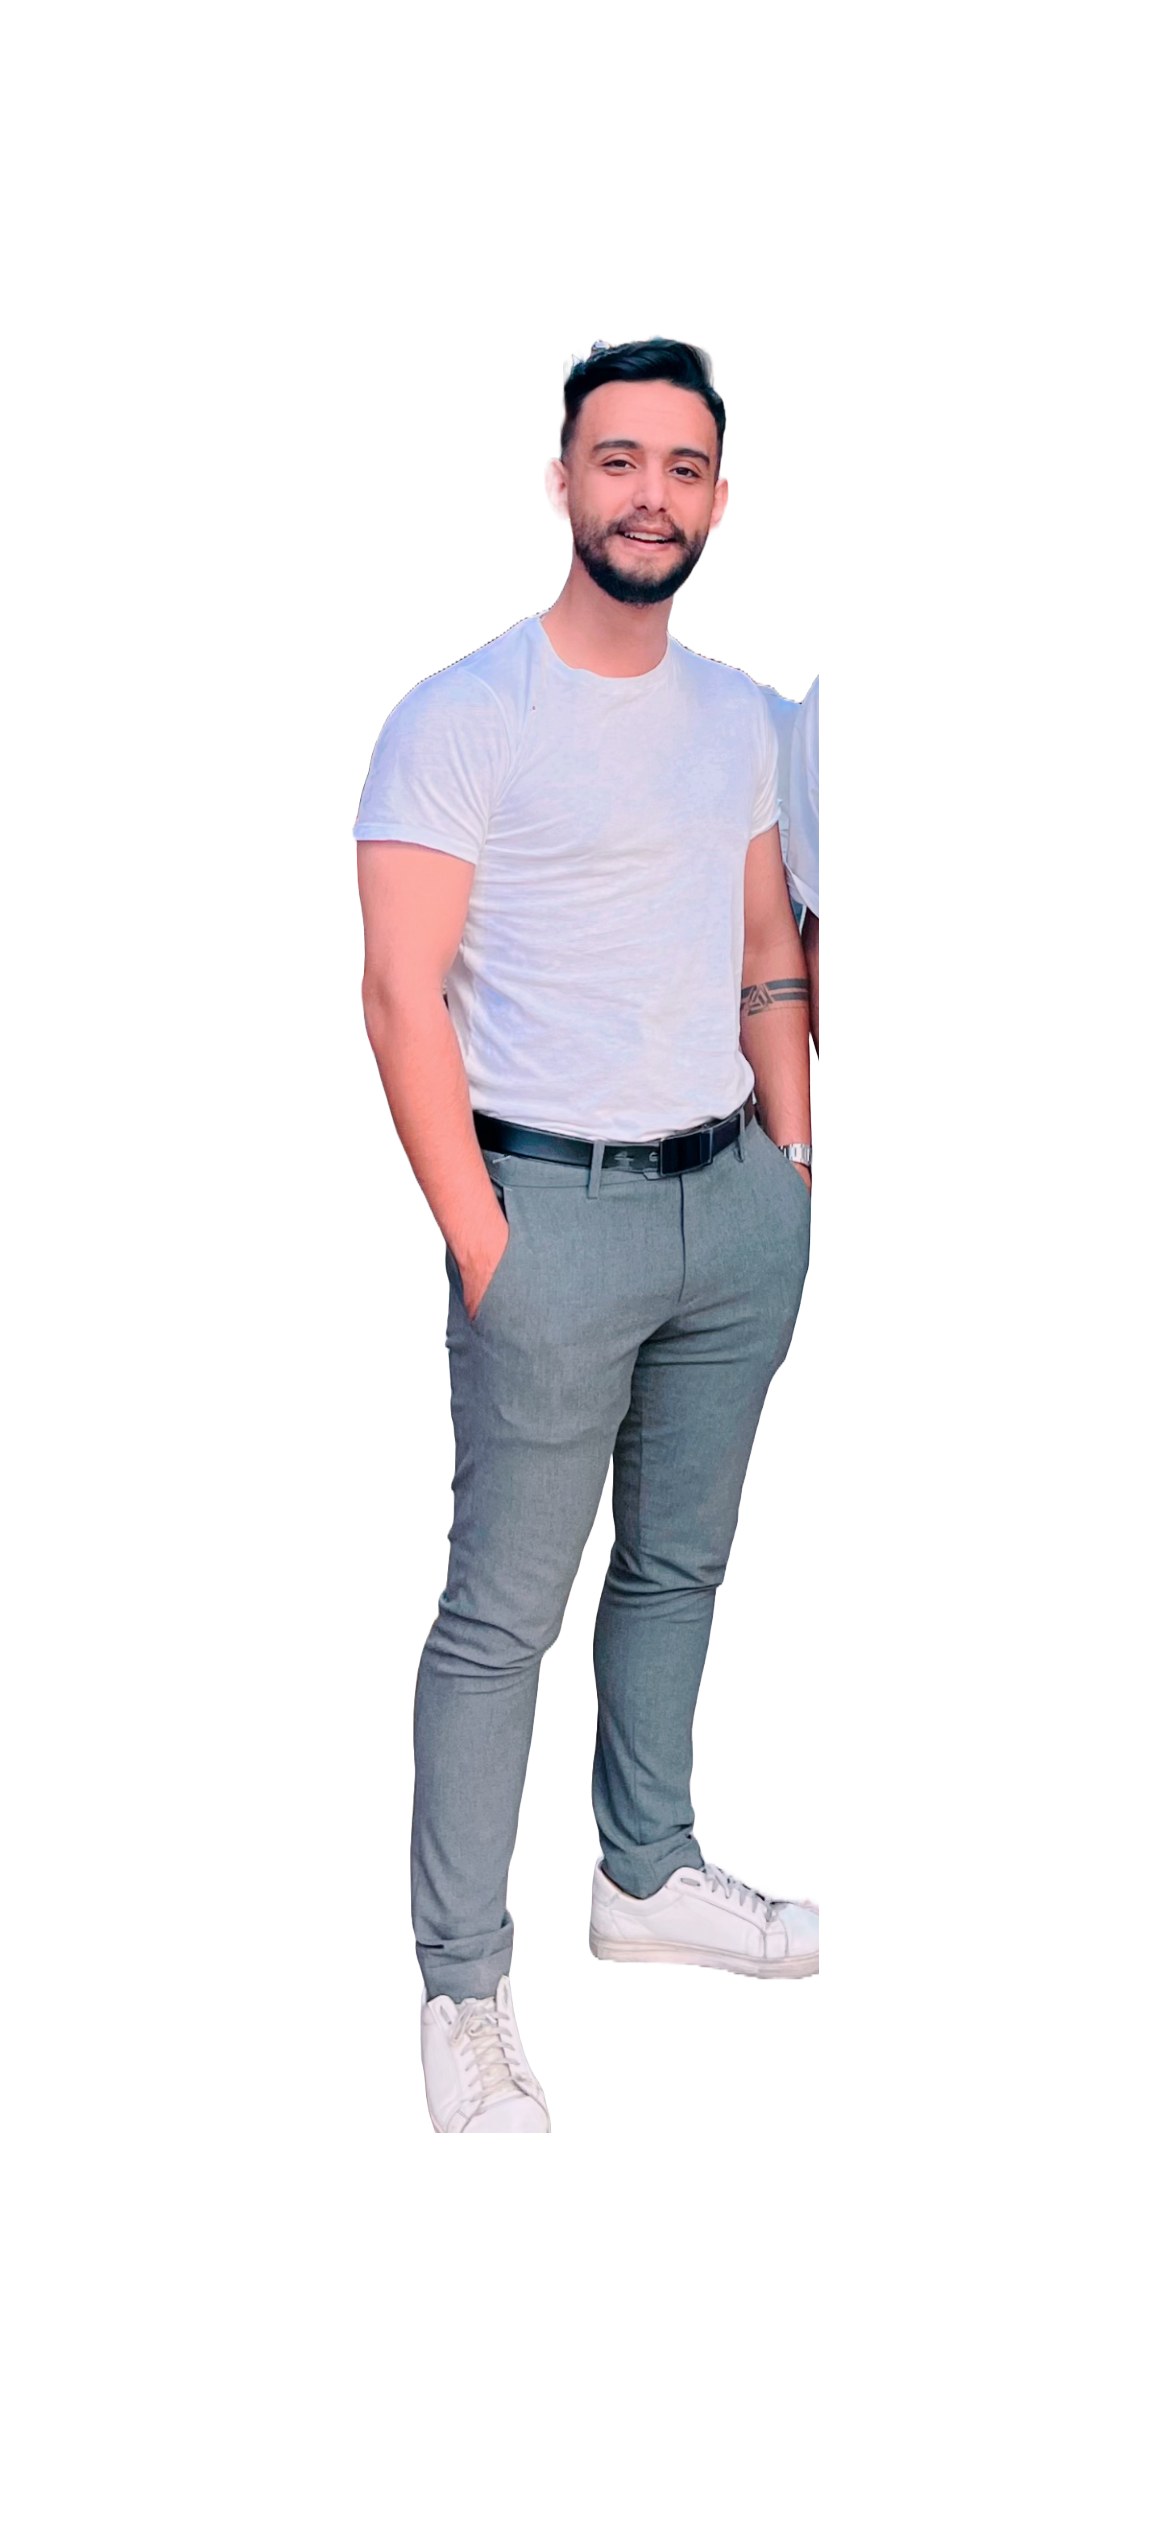
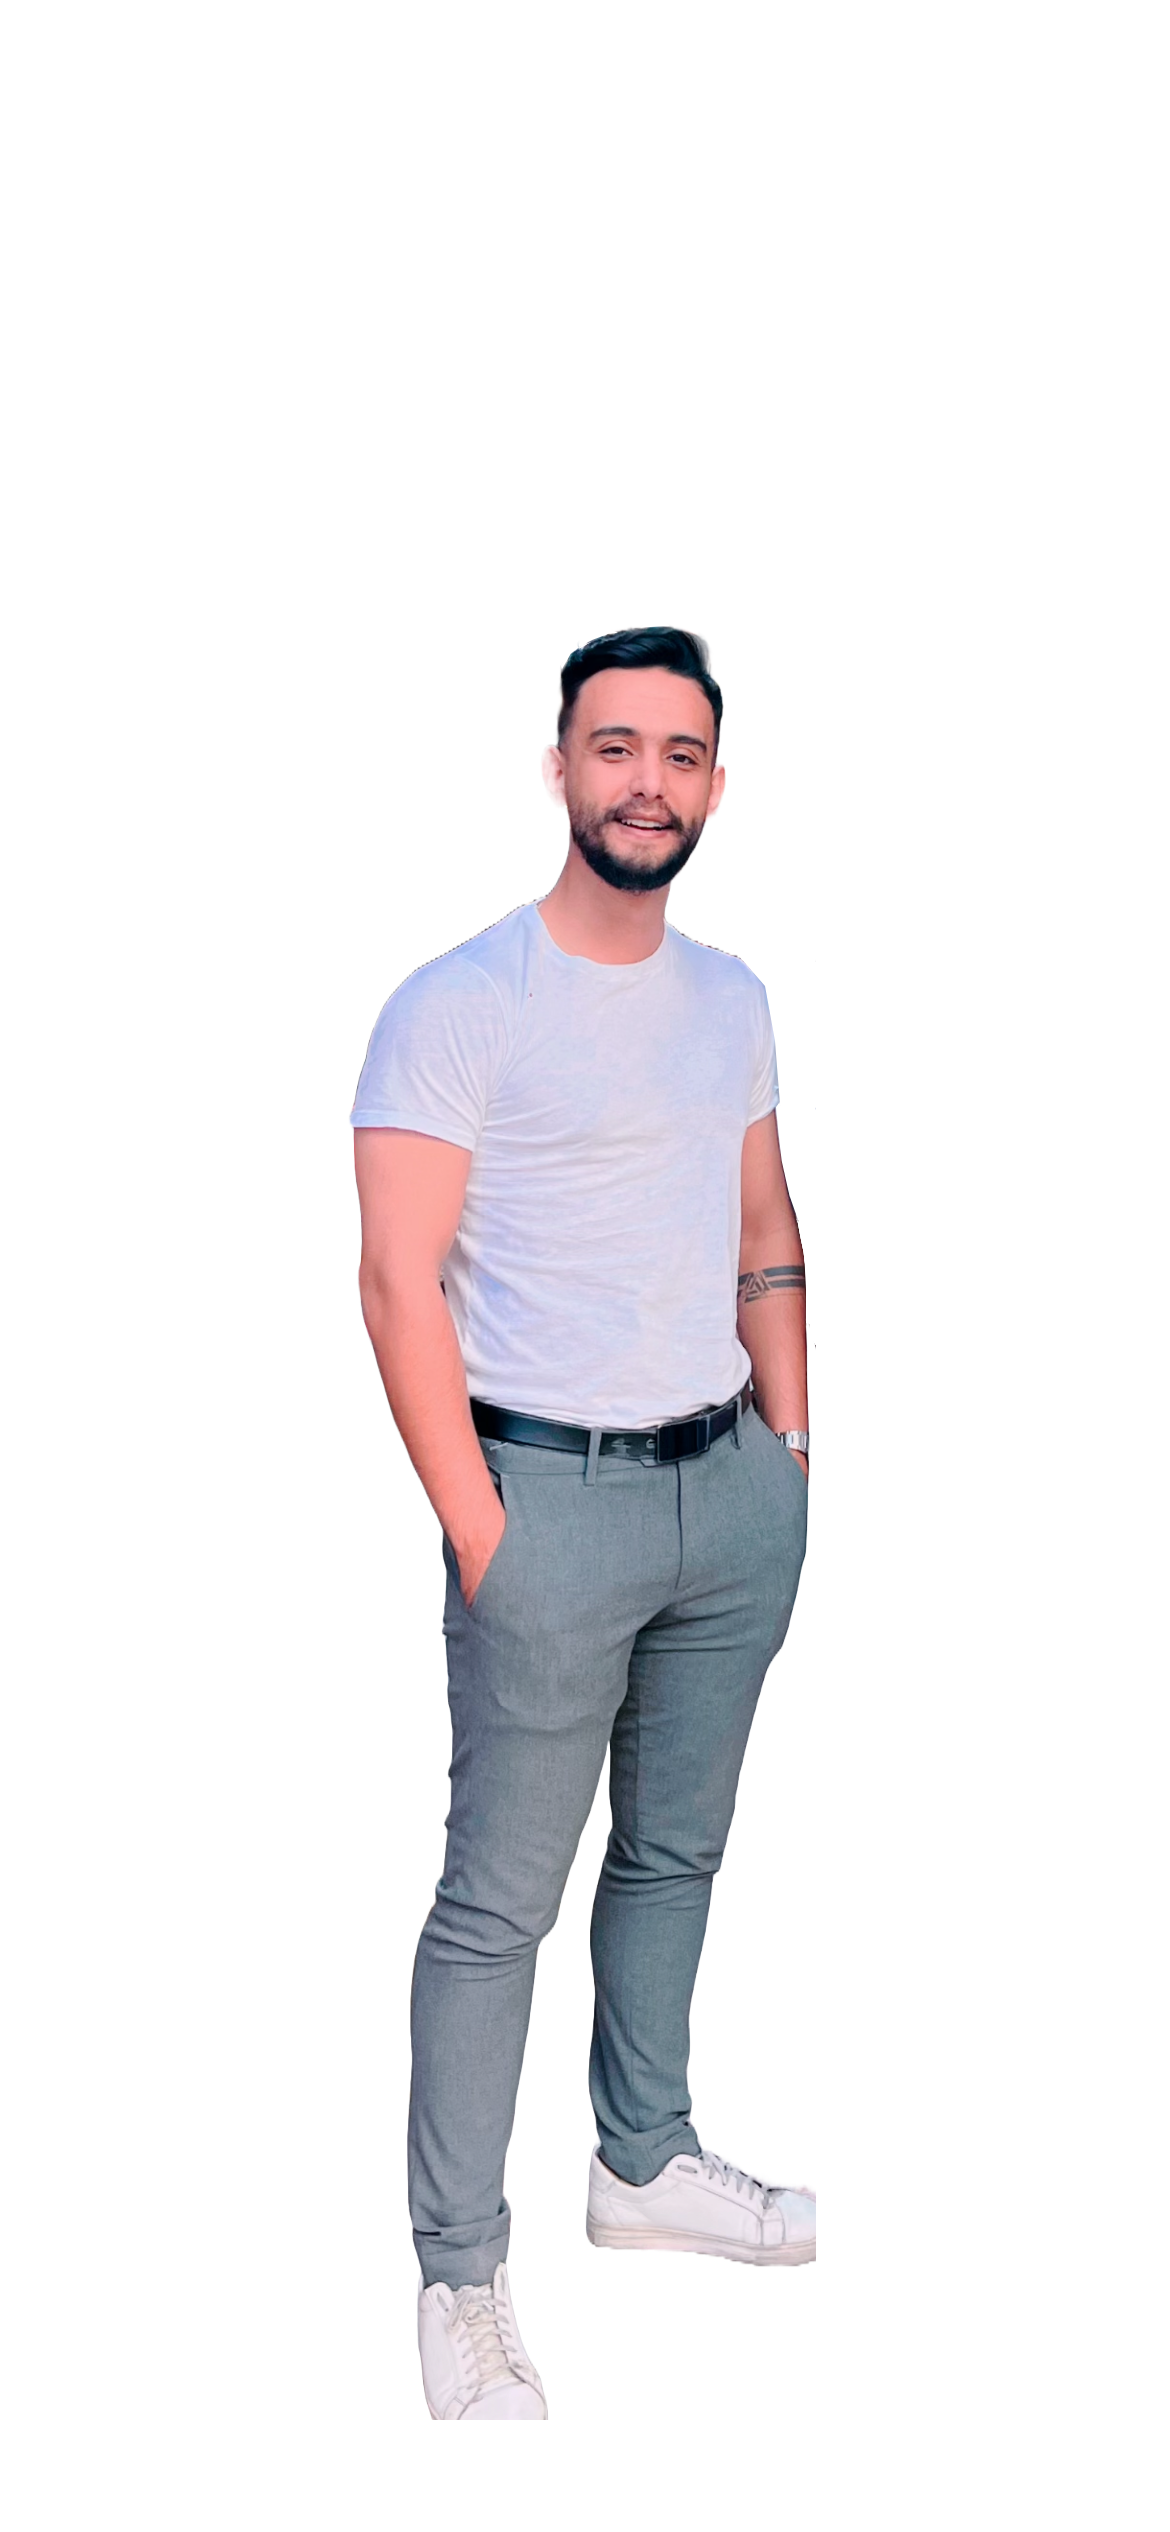
commit

Changed region(s): [[0.2769, 0.1248, 0.7077, 0.9672]]

diff --git a/components/Hero.jsx b/components/Hero.jsx
@@ -15,17 +15,17 @@ export default function Hero() {
       </div>
       <div className="h-screen w-full dark:bg-[#000319] bg-[#dee4e7]   dark:bg-dot-white/[0.5] bg-dot-black/[0.8] relative flex flex-wrap md:flex-nowrap items-center justify-center md:justify-start ">
         <div className="absolute pointer-events-none inset-0 flex items-center justify-center dark:bg-[#000319] bg-[#dee4e7] [mask-image:radial-gradient(ellipse_at_center,transparent_20%,black)]"></div>
-        <figure className='w-[50vw]  h-[1100px] z-20 absolute -top-[100px] md:right-0 md:top-0  order-2  '>
-          <img className='w-full h-[110%] object-cover absolute ' src="/profileimg2.png " alt="" />
+        <figure className='w-[50vw]  h-[900px] z-20 absolute -top-[100px] md:right-0 md:top-0  order-2  '>
+          <img className='w-full h-full object-cover absolute ' src="/profileimg.png " alt="" />
         </figure>
         <div className='relative flex justify-center my-20 z-10 -top-24  order-1 '>
-          <div className='max-w-[90vw] md:max-w-2xl lg:max-w-[60vw] flex flex-col justify-center items-center '>
+          <div className='max-w-[90vw] md:max-w-2xl lg:max-w-[50vw] flex flex-col justify-center items-center '>
             <h1 className={`${eb.className} uppercase tracking-widest text-3xl text-orange-400 max-w-80 backdrop-blur-xl md:backdrop-blur-none p-2`}>
               About Me
             </h1>
             <Texdesign/>
             
-            <p className={`${inconsolata.className} text-start md:tracking-wider sm:text-sm md:text-lg lg:text-3xl my-5 capitalize`}> from <strong className='text-4xl text-orange-400'>Iran, Tehran</strong>   27 years old, I have a deep passion for web development and creating visually appealing, user-friendly interfaces.
+            <p className={`${inconsolata.className} text-start md:tracking-wider sm:text-sm md:text-lg lg:text-2xl my-5 capitalize`}> from <strong className='text-4xl text-orange-400'>Iran, Tehran</strong>   27 years old, I have a deep passion for web development and creating visually appealing, user-friendly interfaces.
 
               My expertise lies in delivering unique digital experiences using modern tools and technologies. I constantly strive to combine creativity and technical knowledge to produce high-quality projects.</p>
 
